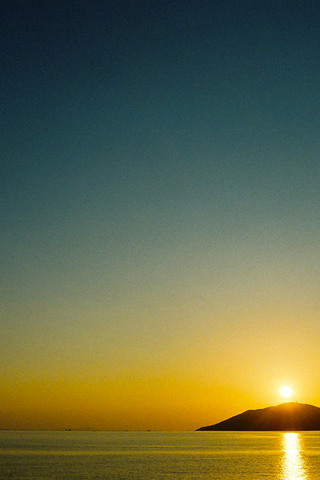
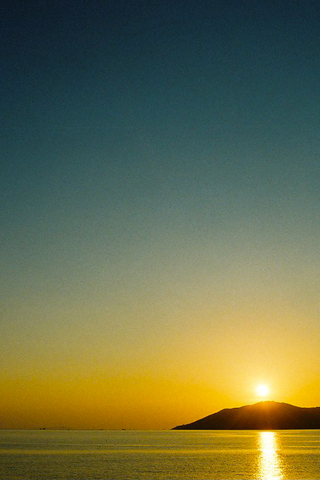
Make it work in landscape

Changed region(s): [[0.3125, 0.75, 1.0, 1.0], [0.2188, 0.9375, 0.2812, 0.9688], [0.125, 0.875, 0.1562, 0.9062]]

diff --git a/app/assets/stylesheets/weather.css.scss b/app/assets/stylesheets/weather.css.scss
@@ -10,7 +10,15 @@ html { @include blueprint; }
   body {
     margin: 0;
     padding: 0;
-    background: transparent url("/assets/sunrise.jpg") no-repeat top left;
+    &[data-orient=portrait] {
+      background: transparent url("/assets/sunrise.jpg") no-repeat top left;
+      .temperature { font-size: 10em; }
+    }
+
+    &[data-orient=landscape] {
+      background-image: url("/assets/sunrise-landscape.jpg");
+      .temperature { font-size: 6em; }
+    }
 
     * { color: #fff!important; }
 
@@ -29,7 +37,6 @@ html { @include blueprint; }
       }
 
       .temperature {
-        font-size: 10em;
         line-height: 1.2em;
         padding: 0;
         margin: 0;

diff --git a/app/assets/javascripts/weather.js b/app/assets/javascripts/weather.js
@@ -12,4 +12,12 @@
                  });
                }
   };
+
+  var reorient = function(event) {
+    var windowOrientation = (window.orientation % 180 == 0) ? "portrait" : "landscape";
+    $("body").attr("data-orient", windowOrientation);
+  };
+
+  window.onorientationchange = reorient;
+  window.setTimeout(reorient, 0);
 })();
